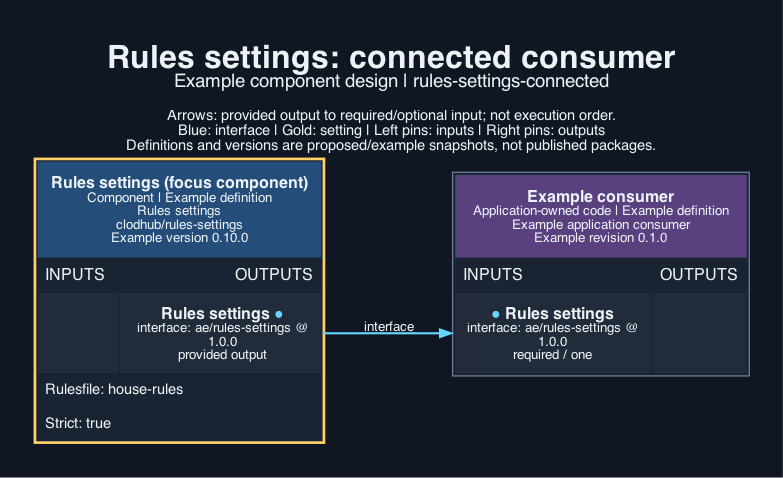
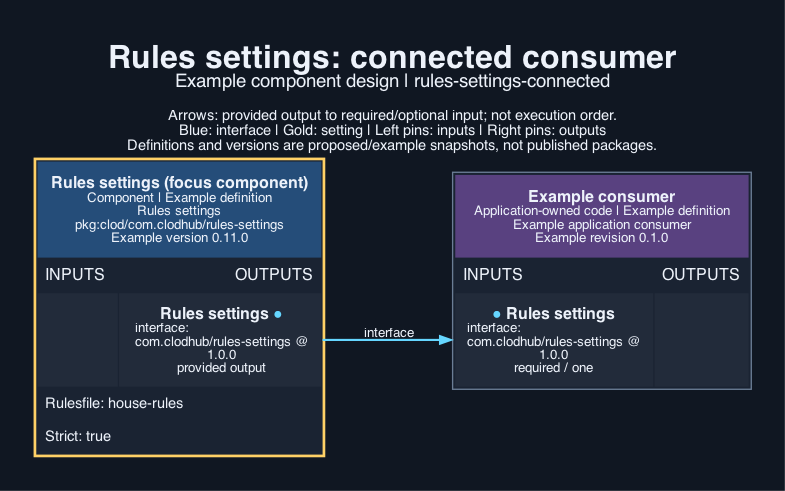
rules-settings 0.11.0: package URL names, clod, com.clodhub interface types; setting defaults as JSON values

Changed region(s): [[0.0307, 0.0879, 0.9502, 0.9372], [0.0, 0.9958, 1.0, 1.0], [0.0613, 0.7908, 0.2452, 0.8494]]

diff --git a/tests/web.test.ts b/tests/web.test.ts
@@ -169,6 +169,6 @@ test("loadRulesSettings: startup by name, checked against its own schema, value(
   assert.throws(() => loadRulesSettings({rulesFile: "../x"}, dir), RangeError);
 });
 
-test("the default rules file name is a slug, the grammar aepm checks every setting value against", () => {
+test("the default rules file name is a slug, the grammar clod checks every setting value against", () => {
   assert.match(DEFAULT_RULES_FILE, /^[a-z][a-z0-9-]{0,63}$/);
 });

diff --git a/SOURCE.md b/SOURCE.md
@@ -7,7 +7,7 @@ Reference revision: `19905b75dbea89fbfd424d67fe26c81aaed0e018`. Extraction sourc
   - Generalised: the compile-time JSON import and the fixed list of constants become `loadRulesFile`, `requireRules` and `getRule(rules, path)`, so any rules file and any rule can be read; the file path and strictness are the `rulesFile` and `strict` settings.
   - Added, not in the recipe: the validator (`web/schema.ts`: the recipe's only check was TypeScript's type inference from the JSON import), the schema files, `ruleRows`, `deepFreeze`.
   - Left behind: each derived constant and what it is used for (`LEVEL_MS` and `blindsFor`, `rules.ts:14-29`, are in level-schedule; `DECISION_MS` is in game-clock; rebuy constants belong to tournament), and the human-readable rules document `rules/texas-holdem-house-rules.md` and coding handoff note (recipe page material).
-- `createRulesSettings`, `value`, `has`, `rulesLocation`, `loadRulesSettings`, `DEFAULT_RULES_FILE` (`generated-adapter`, in `schema.ts` and `rules.ts`): written to turn-engine's `Parts` schema (`interfaces/game-adapter.json` in `clodhub/turn-engine`) (`value(path)`; the engine reads `timing.decision_seconds`, the recipe's `rules.ts:8` constant). `rulesFile` becomes a slug name with the convention `<folder>/<name>.json` plus `<name>.schema.json` because no aepm setting grammar admits a file path.
+- `createRulesSettings`, `value`, `has`, `rulesLocation`, `loadRulesSettings`, `DEFAULT_RULES_FILE` (`generated-adapter`, in `schema.ts` and `rules.ts`): written to turn-engine's `Parts` schema (`interfaces/game-adapter.json` in `clodhub/turn-engine`) (`value(path)`; the engine reads `timing.decision_seconds`, the recipe's `rules.ts:8` constant). `rulesFile` becomes a slug name with the convention `<folder>/<name>.json` plus `<name>.schema.json` because no clod setting grammar admits a file path.
 - `implementation/web/schema.ts`: new (validator, path lookup, rule rows, freezing). It is under `web` so a client can show the rules page without server code; the server file imports it from `../web/schema.ts`.
 - `implementation/server/rules-settings.schema.json`: new; the minimum envelope every rules file needs (`schema_version`, `ruleset_id`, `game`, the same three fields that open `rules/texas-holdem-house-rules.json:2-4`).
 - `tests/fixtures/texas-holdem-house-rules.json`: whole `rules/texas-holdem-house-rules.json` (226 lines), copied as test data only. `tests/fixtures/texas-holdem-house-rules.schema.json`: written for this component by inferring types from that file and then adding ranges, enums and descriptions (test data only; the recipe's own schema is the recipe's business). `tests/fixtures/bad-rules.json`: the same file with `chips.starting_stack` as a string.

diff --git a/CONTRACT.md b/CONTRACT.md
@@ -6,10 +6,10 @@ The game and the rules page must never disagree. The recipe solves this by keepi
 Facilities: `rules-settings` (Load and validate a rules file, read rules by path, list rules for a page).
 
 ## User inputs
-The installer collects two settings. `rulesFile` is the name of the rules file the game reads (a lower-case slug; default `house-rules`): the rules are `<name>.json` and their schema `<name>.schema.json` in the application's rules folder (`rulesLocation`). It is a name, not a path, because aepm checks every setting against a grammar and none of the grammars admits a file path. `strict`, when true (default), makes every object in the schema reject fields the schema does not list, so a misspelt rule name is an error instead of being ignored.
+The installer collects two settings. `rulesFile` is the name of the rules file the game reads (a lower-case slug; default `house-rules`): the rules are `<name>.json` and their schema `<name>.schema.json` in the application's rules folder (`rulesLocation`). It is a name, not a path, because clod checks every setting against a grammar and none of the grammars admits a file path. `strict`, when true (default), makes every object in the schema reject fields the schema does not list, so a misspelt rule name is an error instead of being ignored.
 
 - `rulesFile` (string, slug; optional; default `house-rules`)
-- `strict` (boolean; optional; default `True`)
+- `strict` (boolean; optional; default `true`)
 
 ## Artefacts and dependencies
 `component.json` maps every `implementation/` source into `components/rules-settings/`:
@@ -22,7 +22,7 @@ Dependencies: none.
 `tools.lock.json` pins verification tools: node 26.5. Licence: `Apache-2.0` (`LICENCE`, `NOTICE`).
 
 ## Provided interfaces
-- `interfaces/rules-settings.json` defines `rules-settings` (ae/rules-settings) version 1.0.0: an OpenRPC 1.3.2 document, one method per function (a member of a created object is `<Type>.<member>`), with parameter, result and data types as JSON Schema 2020-12 (`components.schemas`) and thrown errors under `errors`.
+- `interfaces/rules-settings.json` defines `rules-settings` (com.clodhub/rules-settings) version 1.0.0: an OpenRPC 1.3.2 document, one method per function (a member of a created object is `<Type>.<member>`), with parameter, result and data types as JSON Schema 2020-12 (`components.schemas`) and thrown errors under `errors`.
 
 ## Required interfaces
 None.

diff --git a/INSTRUCTIONS.md b/INSTRUCTIONS.md
@@ -3,11 +3,11 @@
 ## For the agent
 Select this component when a recipe has a house rules file. Set `rulesFile` to the name of the recipe's rules file without folder or extension (for `rules/texas-holdem-house-rules.json` that is `texas-holdem-house-rules`) and keep `strict` true. Supply the recipe's schema file next to the rules file (the shipped envelope schema is only a minimum). Connect the provided `rules-settings` to the components that read rules (holdem-rules, turn-engine).
 
-- Select package `clodhub/rules-settings` version `0.10.0`.
+- Select package `pkg:clod/com.clodhub/rules-settings` version `0.11.0`.
 - Settings to configure:
   - `rulesFile` (string, slug; optional; default `house-rules`)
-  - `strict` (boolean; optional; default `True`)
-- Connect the provided `rules-settings` (ae/rules-settings 1.0.0) to the consumer that needs it.
+  - `strict` (boolean; optional; default `true`)
+- Connect the provided `rules-settings` (com.clodhub/rules-settings 1.0.0) to the consumer that needs it.
 - No accounts or keys are needed.
 
 ## For the developer
@@ -17,4 +17,4 @@ Write the rules file as plain JSON with snake_case names, one section per concer
 From the component directory:
 
 - `node --test tests/web.test.ts` (web, required-local; tools: node 26.5)
-- `python3 -m aepm review <digest> --store STORE --policy POLICY --trusted --allow-network` checks an archive fetched with `python3 -m aepm fetch clodhub/rules-settings@VERSION --store STORE --from https://clodhub.com` and runs its suites.
+- `python3 -m clod review <digest> --store STORE --policy POLICY --trusted --allow-network` checks an archive fetched with `python3 -m clod fetch rules-settings@VERSION --store STORE --from https://clodhub.com` and runs its suites.

diff --git a/visual/output/description.md b/visual/output/description.md
@@ -1,3 +1,3 @@
 # Rules settings
 
-The rules-settings component at version 0.10.0 provides ae/rules-settings version 1.0.0 to an illustrative application consumer. The single arrow runs from the named output to its required input. Setting values shown are placeholders and secrets appear only as references.
+The rules-settings component at version 0.11.0 provides com.clodhub/rules-settings version 1.0.0 to an illustrative application consumer. The single arrow runs from the named output to its required input. Setting values shown are placeholders and secrets appear only as references.

diff --git a/.opencode/knowledge/workflow.md b/.opencode/knowledge/workflow.md
@@ -2,5 +2,5 @@
 
 Repository: `clodhub/rules-settings`. Licence: `Apache-2.0` (`LICENCE`, `NOTICE`).
 Suite commands (from the package root): `node --test tests/web.test.ts`.
-Review a fetched archive: `python3 -m aepm review <digest> --store STORE --policy POLICY --trusted --allow-network`.
+Review a fetched archive: `python3 -m clod review <digest> --store STORE --policy POLICY --trusted --allow-network`.
 Always run Python with `-B`; never write bytecode into the repository.
